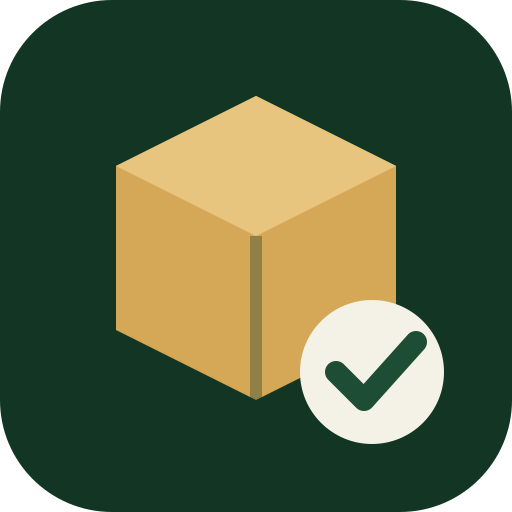
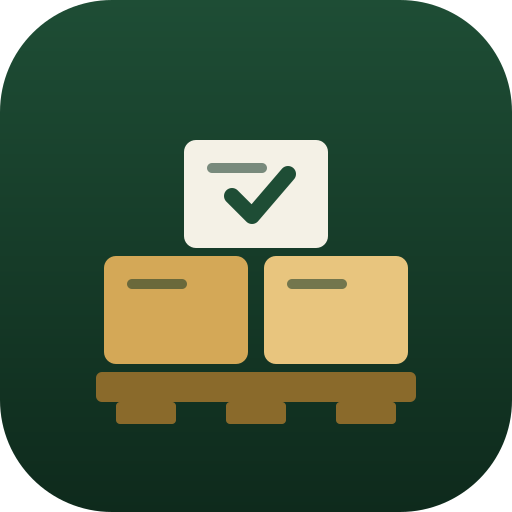
Nuevo ícono: cajas sobre pallet con tilde
Claude-Session: https://claude.ai/code/session_01KM19FNoVYXkhgUENnxN5T9

Changed region(s): [[0.1875, 0.1875, 0.875, 0.875]]

diff --git a/index.html b/index.html
@@ -4,7 +4,7 @@
 <meta charset="utf-8">
 <meta name="viewport" content="width=device-width, initial-scale=1">
 <title>Control de Mercadería</title>
-<link rel="manifest" href="manifest.json"><meta name="theme-color" content="#1f6f50">
+<link rel="manifest" href="manifest.json"><meta name="theme-color" content="#123524">
 <link rel="icon" href="favicon.ico" sizes="any"><link rel="icon" type="image/png" sizes="32x32" href="favicon-32.png"><link rel="icon" type="image/svg+xml" href="icon.svg"><link rel="apple-touch-icon" href="icono-180.png">
 <link rel="preconnect" href="https://fonts.googleapis.com">
 <link href="https://fonts.googleapis.com/css2?family=IBM+Plex+Mono:wght@400;500&family=IBM+Plex+Sans:wght@400;500;600&family=Archivo:wght@600;700&display=swap" rel="stylesheet">
